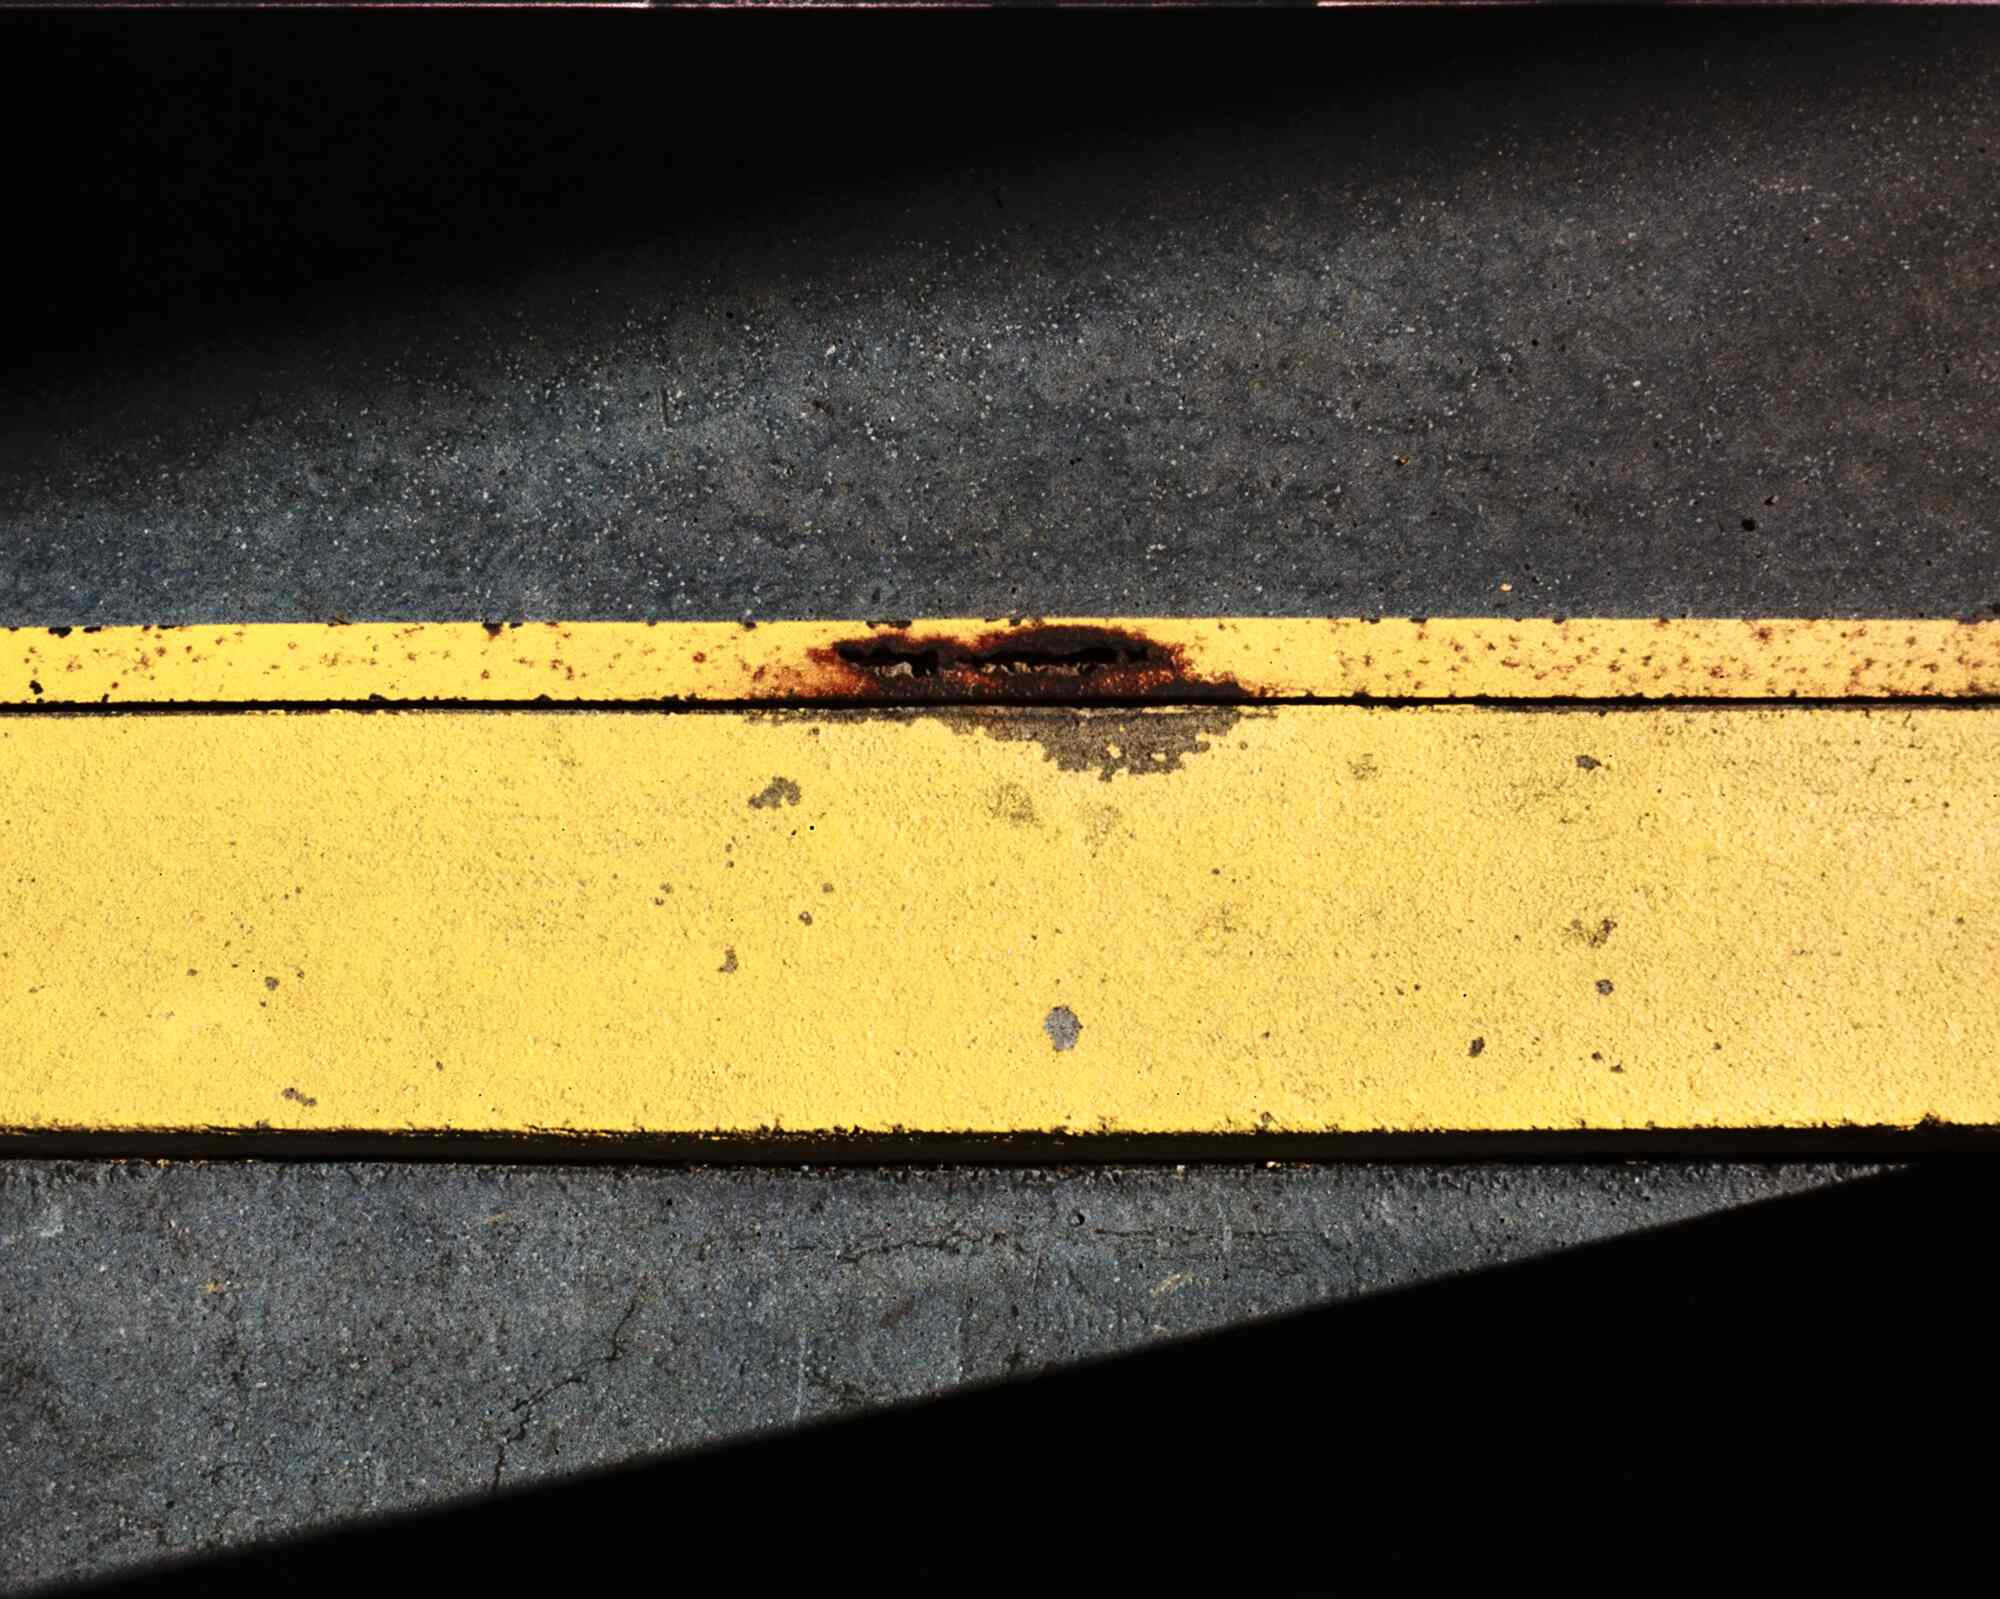
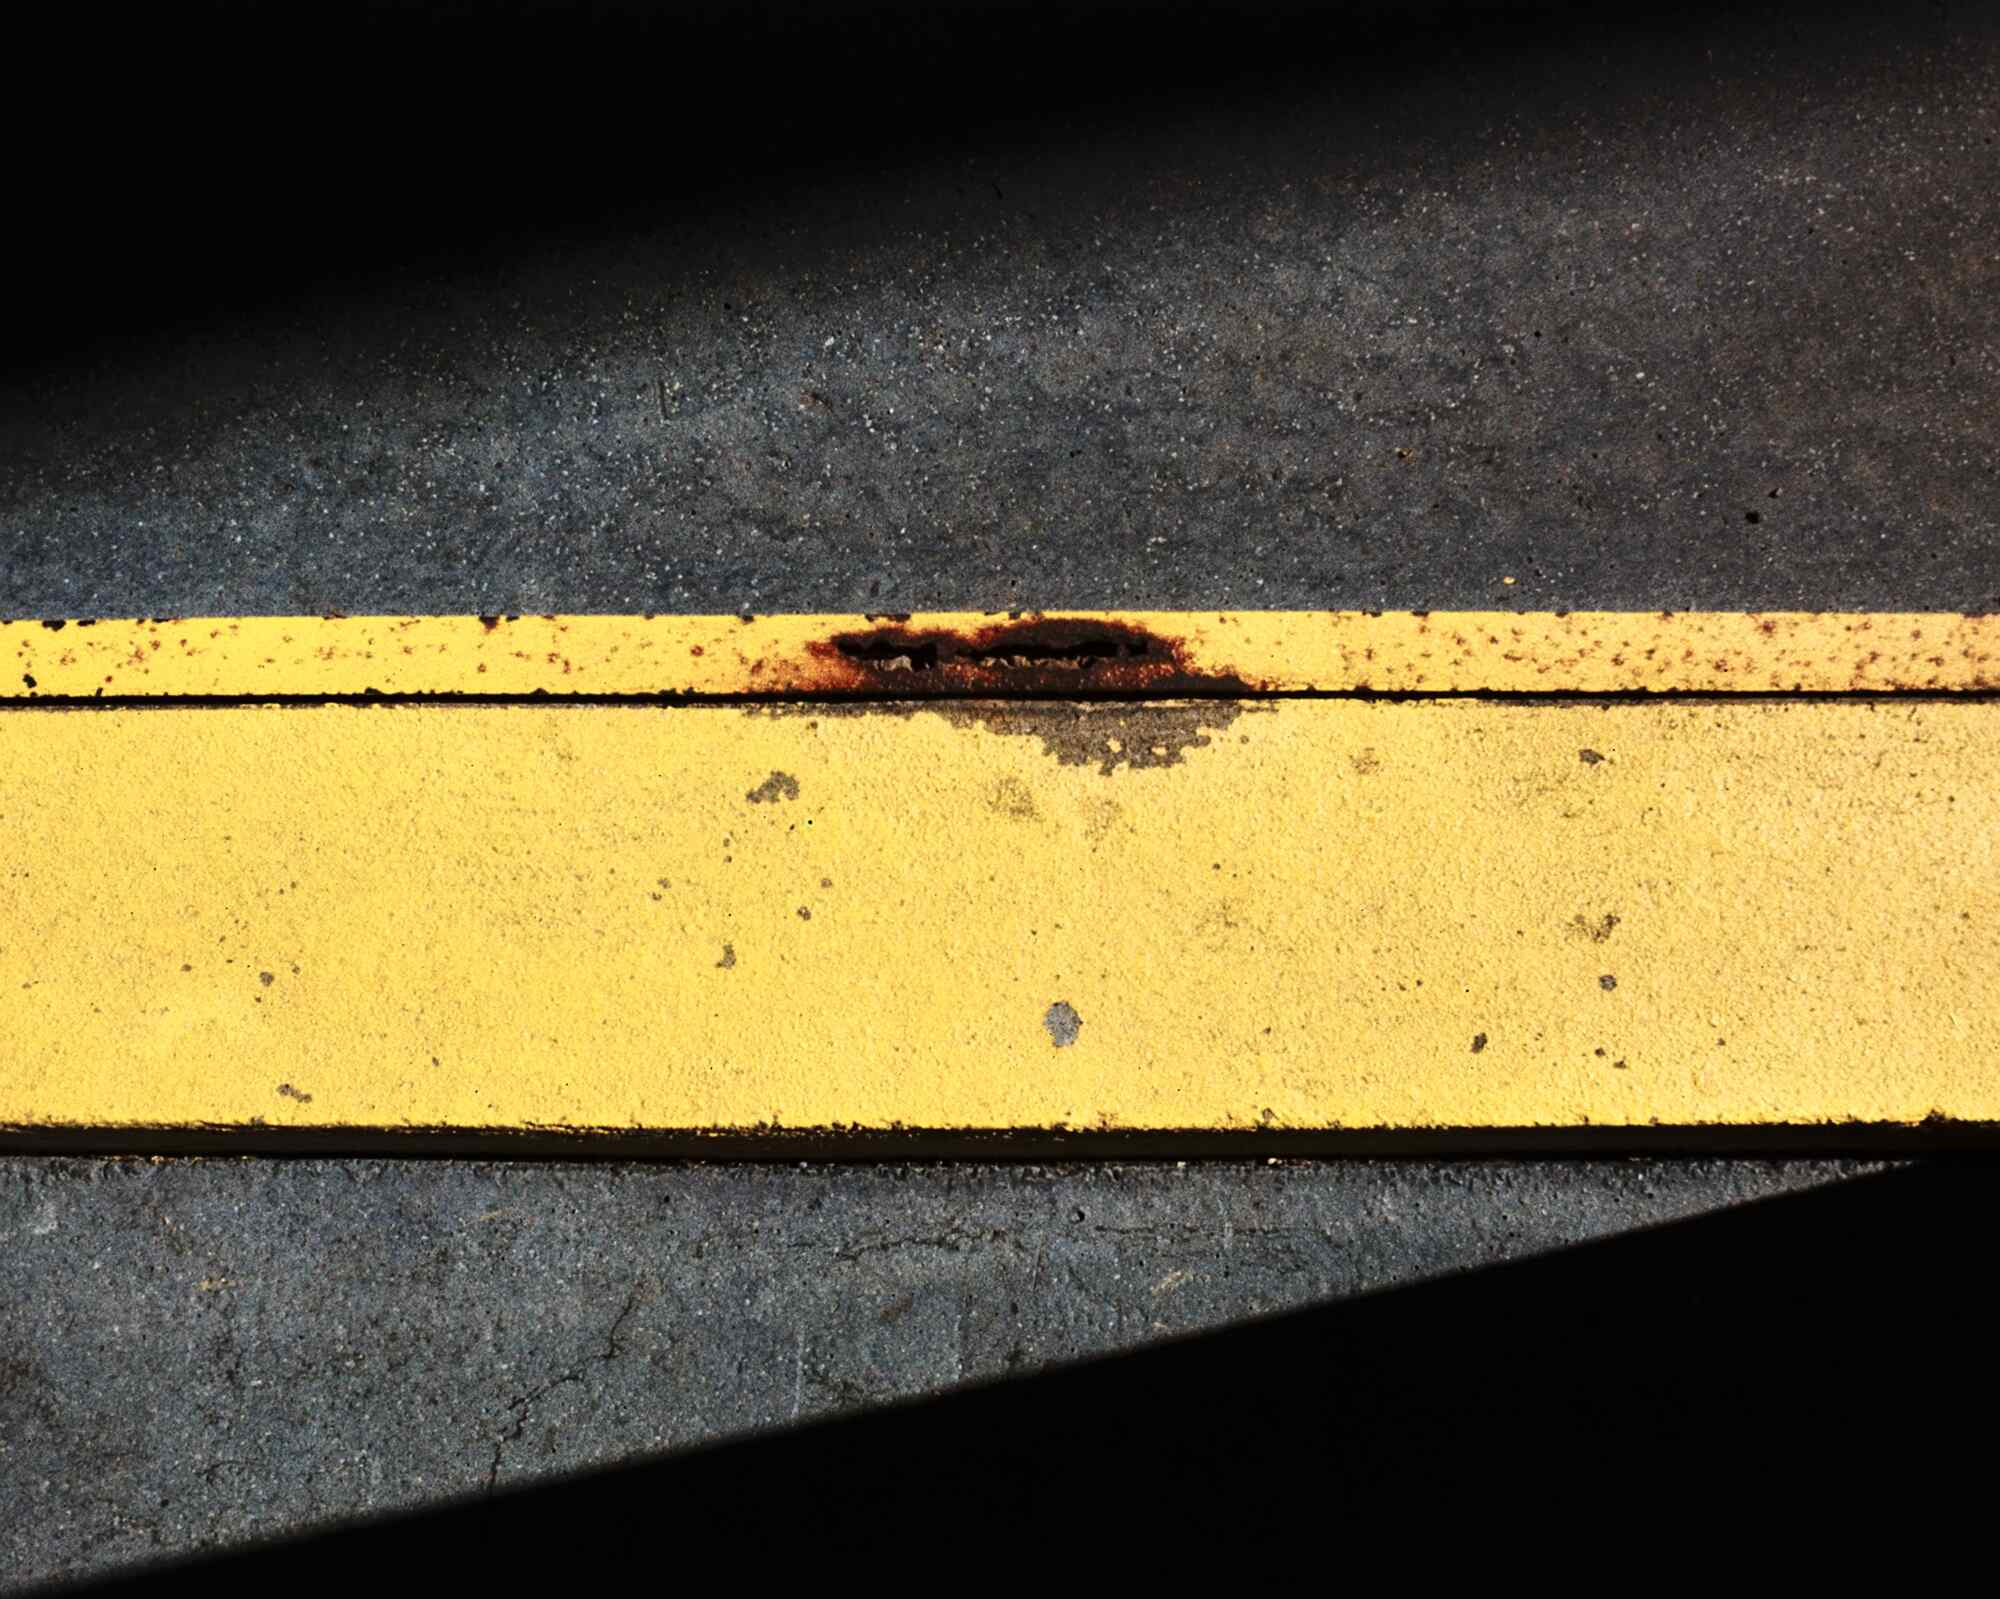
Stadtbild update

diff --git a/Stadtbild.html b/Stadtbild.html
@@ -48,7 +48,7 @@
     <img src="images/20260624_DSCF4902.jpg" class="landscape" alt="">
     <img src="images/20260624_DSCF4905.jpg" class="portrait" alt="">
     <img src="images/20260624_DSCF4911.jpg" class="portrait" alt="">
-    <img src="images/20260713_DSCF5087.jpg" class="landscape" alt="">  
+    <img src="images/20260714_DSCF5118.jpg" class="landscape" alt="">  
 
 </div>
  <div class="project-header">

diff --git a/index.html b/index.html
@@ -83,7 +83,7 @@
 <section class="project">
 <div class="hero">
     <a href="Stadtbild.html">
-        <img src="images/20260713_DSCF5087.jpg" alt="Stadtbild">
+        <img src="images/20260714_DSCF5118.jpg" alt="Stadtbild">
     </a>
 </div>
 